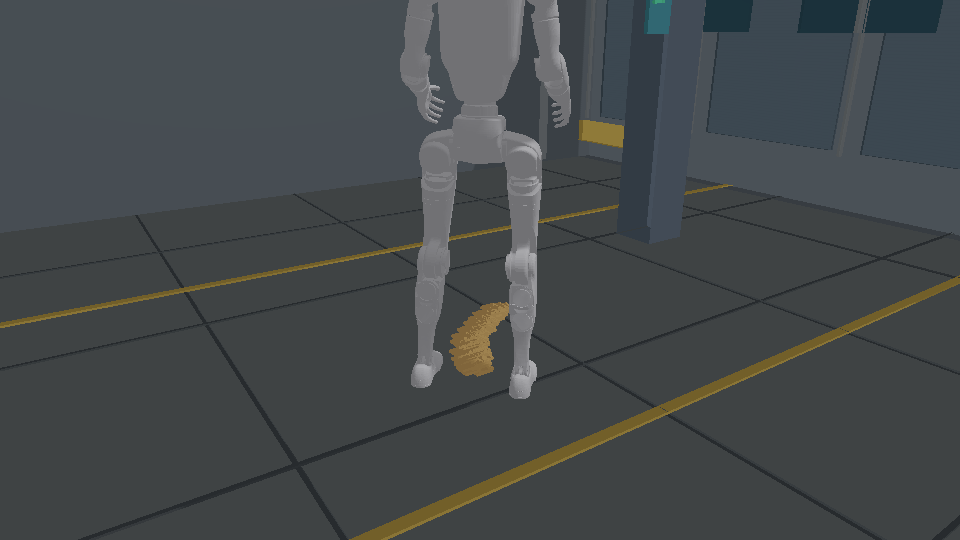
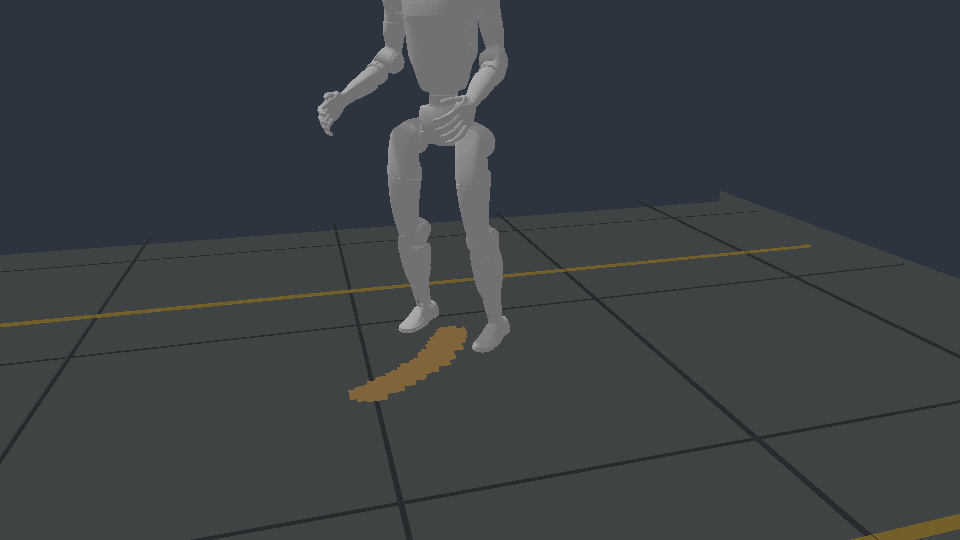
fix(g1): lock the README stride camera to along-track dolly
Keep yaw, height, and lateral COM sway fixed so pelvis bounce no longer
shakes the hero GIF. Recapture the learned-stride media.

[skip ci]

diff --git a/examples/63_g1_stride_gif/main.rs b/examples/63_g1_stride_gif/main.rs
@@ -77,6 +77,10 @@ struct G1Walker {
     min_height_m: f64,
     trail_m: Vec<[f64; 2]>,
     capture_active: bool,
+    camera_focus_xz_m: [f64; 2],
+    camera_focus_y_m: f64,
+    camera_along_xz: [f64; 2],
+    camera_yaw_rad: f64,
 }
 
 impl G1Walker {
@@ -110,6 +114,10 @@ impl G1Walker {
             min_height_m: observed.base_y_m,
             trail_m: Vec::new(),
             capture_active: false,
+            camera_focus_xz_m: [observed.base_x_m, observed.base_z_m],
+            camera_focus_y_m: observed.base_y_m * 0.42,
+            camera_along_xz: [0.0, 1.0],
+            camera_yaw_rad: 0.0,
         }
     }
 
@@ -124,6 +132,43 @@ impl G1Walker {
         self.trail_m.clear();
         self.capture_active = true;
         self.record_trail();
+        self.lock_camera();
+    }
+
+    fn lock_camera(&mut self) {
+        let observed = self.sim.observe();
+        let pelvis = self.sim.named_transform("pelvis").expect("G1 pelvis pose");
+        let body_forward = pelvis.rotation * Vec3::Z;
+        let along = Vec3::new(body_forward.x, 0.0, body_forward.z).normalize_or_zero();
+        let along = if along.length_squared() > 0.0 {
+            along
+        } else {
+            Vec3::Z
+        };
+        let side = Vec3::new(-along.z, 0.0, along.x);
+        let eye_direction = (-along * 0.45 + side * 0.90).normalize_or_zero();
+        self.camera_along_xz = [along.x, along.z];
+        self.camera_yaw_rad = eye_direction.x.atan2(eye_direction.z);
+        self.camera_focus_xz_m = [observed.base_x_m, observed.base_z_m];
+        self.camera_focus_y_m = observed.base_y_m * 0.42;
+    }
+
+    fn advance_camera(&mut self) {
+        let observed = self.sim.observe();
+        let along = Vec3::new(self.camera_along_xz[0], 0.0, self.camera_along_xz[1]);
+        let travel = Vec3::new(
+            observed.base_x_m - self.capture_start_xz_m[0],
+            0.0,
+            observed.base_z_m - self.capture_start_xz_m[1],
+        );
+        let along_m = travel.dot(along);
+        let target = Vec3::new(self.capture_start_xz_m[0], 0.0, self.capture_start_xz_m[1])
+            + along * along_m;
+        // Follow only the along-track displacement. Height, heading, and lateral
+        // COM sway stay locked so step bounce does not shake the orbit.
+        const FOLLOW: f64 = 0.12;
+        self.camera_focus_xz_m[0] += FOLLOW * (target.x - self.camera_focus_xz_m[0]);
+        self.camera_focus_xz_m[1] += FOLLOW * (target.z - self.camera_focus_xz_m[1]);
     }
 
     fn step_frame(&mut self, steps: u64) {
@@ -284,6 +329,7 @@ fn main() {
 
     for frame in 0..FRAME_COUNT {
         learned.step_frame(STEPS_PER_FRAME);
+        learned.advance_camera();
         let rgba = render_panel(
             &mut backend,
             &camera,
@@ -438,7 +484,6 @@ fn render_panel(
     floor_roughness_texture: &Arc<ImageFrame>,
     trail_color: [f32; 4],
 ) -> Vec<u8> {
-    let observed = walker.sim.observe();
     let mut scene = build_visual_render_scene(walker.sim.world());
     scene.items.retain(|item| {
         !matches!(item.shape, VisualShape::Box { size_m } if size_m.x > 5.0 && size_m.z > 5.0)
@@ -468,26 +513,13 @@ fn render_panel(
     mesh_cache
         .resolve_scene(&mut scene, mesh_root_refs)
         .expect("resolve official G1 meshes");
-    let pelvis = walker
-        .sim
-        .named_transform("pelvis")
-        .expect("G1 pelvis pose");
-    let body_forward = pelvis.rotation * Vec3::Z;
-    let along = Vec3::new(body_forward.x, 0.0, body_forward.z).normalize_or_zero();
-    let along = if along.length_squared() > 0.0 {
-        along
-    } else {
-        Vec3::Z
-    };
-    let side = Vec3::new(-along.z, 0.0, along.x);
-    let eye_direction = (-along * 0.45 + side * 0.90).normalize_or_zero();
     let orbit = CameraOrbit {
         focus: Vec3::new(
-            observed.base_x_m,
-            observed.base_y_m * 0.42,
-            observed.base_z_m,
+            walker.camera_focus_xz_m[0],
+            walker.camera_focus_y_m,
+            walker.camera_focus_xz_m[1],
         ),
-        yaw_rad: eye_direction.x.atan2(eye_direction.z),
+        yaw_rad: walker.camera_yaw_rad,
         pitch_rad: 1.22,
         distance_m: 1.85,
     };

diff --git a/docs/G1_LOCOMOTION.md b/docs/G1_LOCOMOTION.md
@@ -81,8 +81,8 @@ three ulp-perturbed replays**.
 
 The companion hero capture is generated by
 `examples/63_g1_stride_gif`. It follows `LEARNED_STRIDE` under a forward
-command with a tracking 3/4 camera so the stride and measured floor trail are
-visible. `--smoke` still compares that walk to the plain hybrid stepper over
+command with a locked 3/4 orbit that dollies along-track only, so pelvis bounce
+does not shake the camera. The measured floor trail stays visible. `--smoke` still compares that walk to the plain hybrid stepper over
 the same 8 s settle discard and two measured windows. The current capture
 measures about 0.22 m per window at 0.784 m minimum height. It writes
 `docs/media/unitree-g1-learned-stride.gif` and the reduced-motion
